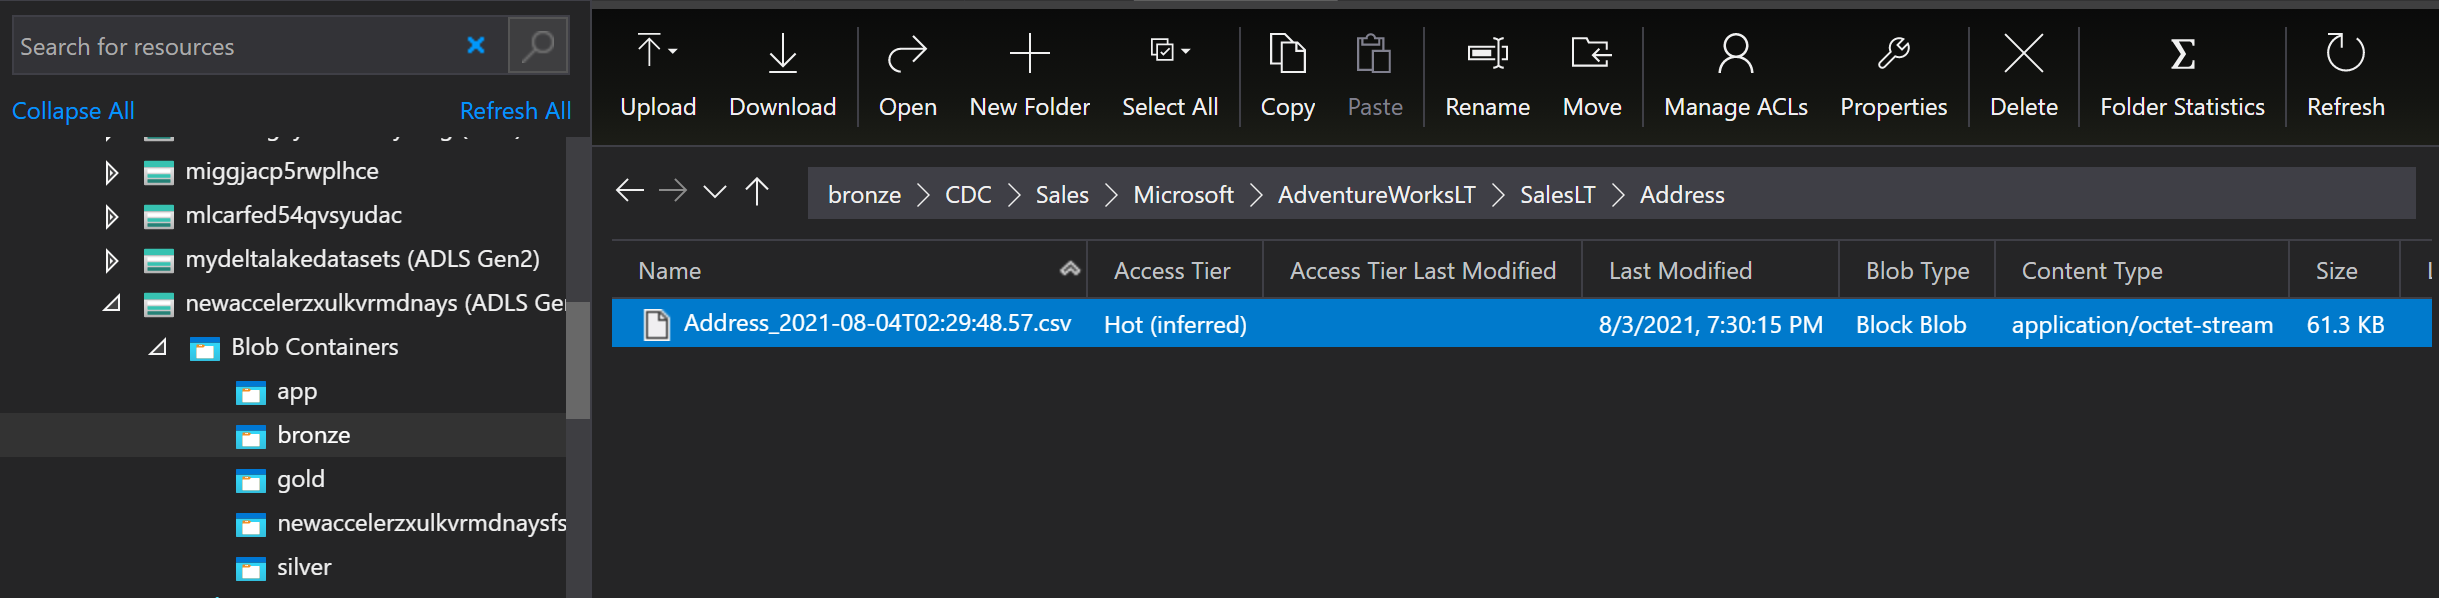
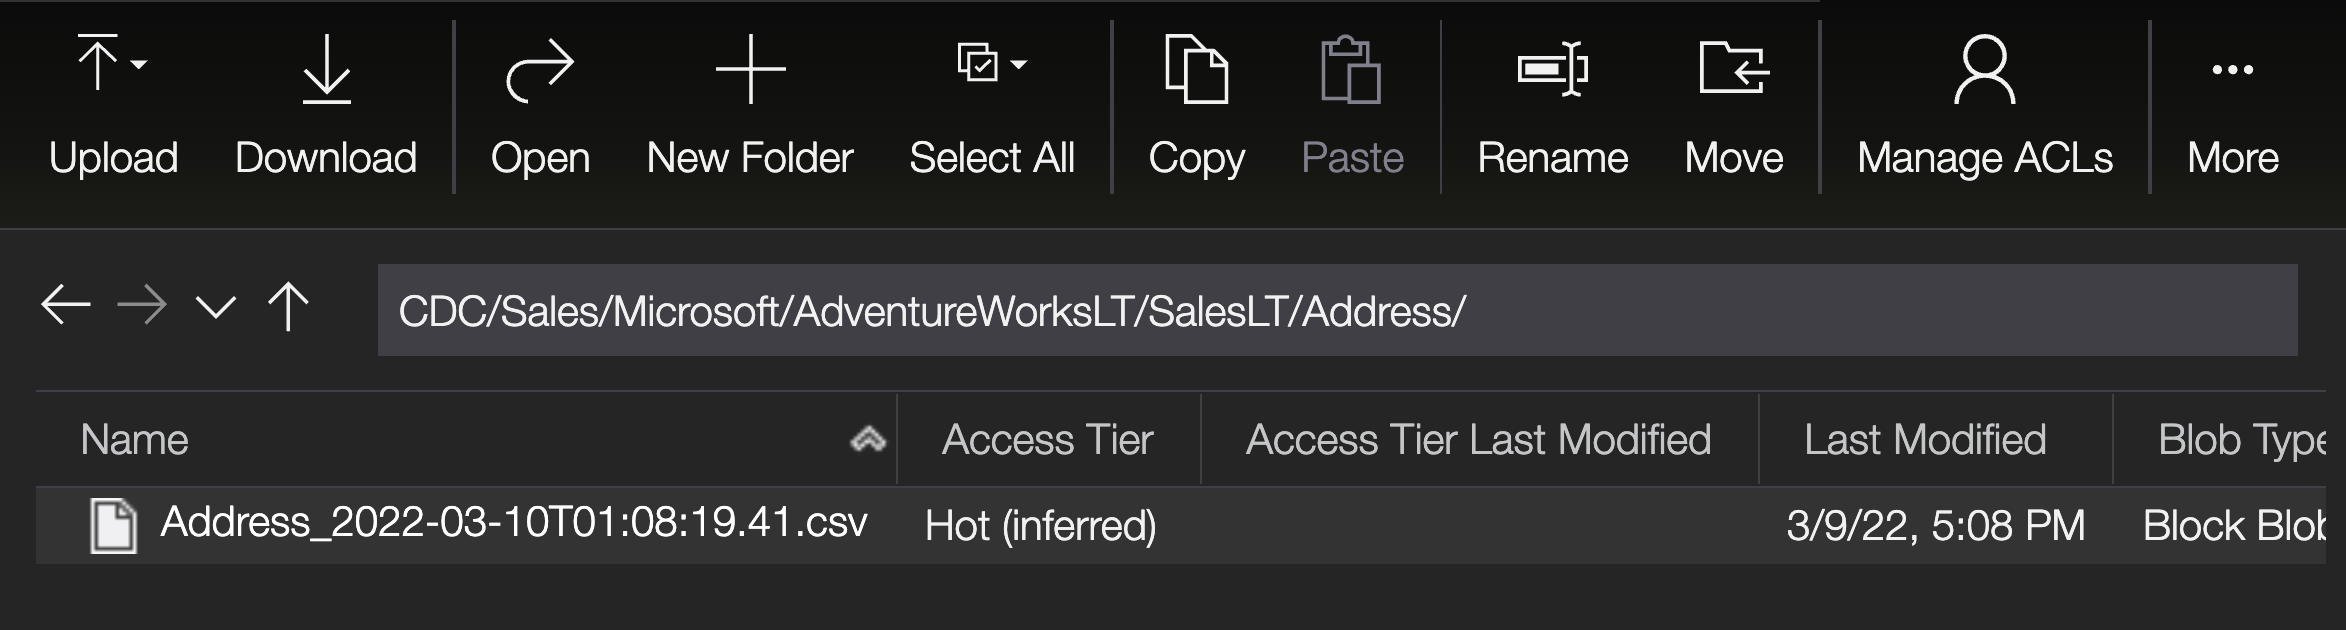
adfimages

diff --git a/usecases/cdc/steps/usecasesteps.md b/usecases/cdc/steps/usecasesteps.md
@@ -34,23 +34,15 @@ It should look like this
 
 ![adftemplateUserinputs](https://raw.githubusercontent.com/DataSnowman/MyDataMesh/main/images/adftemplateUserinputs.png)
 
-Select +New in the first User input and create an Azure SQL Database Linked Service to the database deployed by the ARM template.
-
-![adfDatabaseLinkedService](https://raw.githubusercontent.com/DataSnowman/MyDataMesh/main/images/adfDatabaseLinkedService.png)
-
-Select +New in the second User input and create an Azure Data Lake Storage Gen2 Linked Service 
+Select +New in the first User input and create an Azure Data Lake Storage Gen2 Linked Service to the database deployed by the ARM template.
 
 ![adfAdlsLinkedService](https://raw.githubusercontent.com/DataSnowman/MyDataMesh/main/images/adfAdlsLinkedService.png)
 
+Select +New in the second User input and create an Azure SQL Database Linked Service 
+
+![adfDatabaseLinkedService](https://raw.githubusercontent.com/DataSnowman/MyDataMesh/main/images/adfDatabaseLinkedService.png)
+
 For Input 3 select the same Database you chose in Input 1 
-
-For Input 4 select the same Database you chose in Input 1
-
-For Input 5 select the same Storage input you chose in Input 2
-
-For Input 6 select the same Database you chose in Input 1 
-
-For Input 7 select the same Database you chose in Input 1
 
 Then click on Use this template
 
@@ -71,7 +63,7 @@ Once the pipeline runs successfully it should look like this
 
 ![adfSuccessfulRun](https://raw.githubusercontent.com/DataSnowman/MyDataMesh/main/images/adfSuccessfulRun.png)
 
-Check that the files have been created in Storage using [Azure Storage Explorer](https://azure.microsoft.com/en-us/features/storage-explorer/) or the Azure Portal in the browser.  The files should be in bronze container at a path like `CDC/Sales/Microsoft/AdventureWorksLT/SalesLT/Address/`
+Check that the files have been created in Storage using [Azure Storage Explorer](https://azure.microsoft.com/en-us/features/storage-explorer/) or the Azure Portal in the browser.  The files should be in landingzone container at a path like `CDC/Sales/Microsoft/AdventureWorksLT/SalesLT/Address/`
 
 ![adfFileInStorage](https://raw.githubusercontent.com/DataSnowman/MyDataMesh/main/images/adfFileInStorage.png)
 
